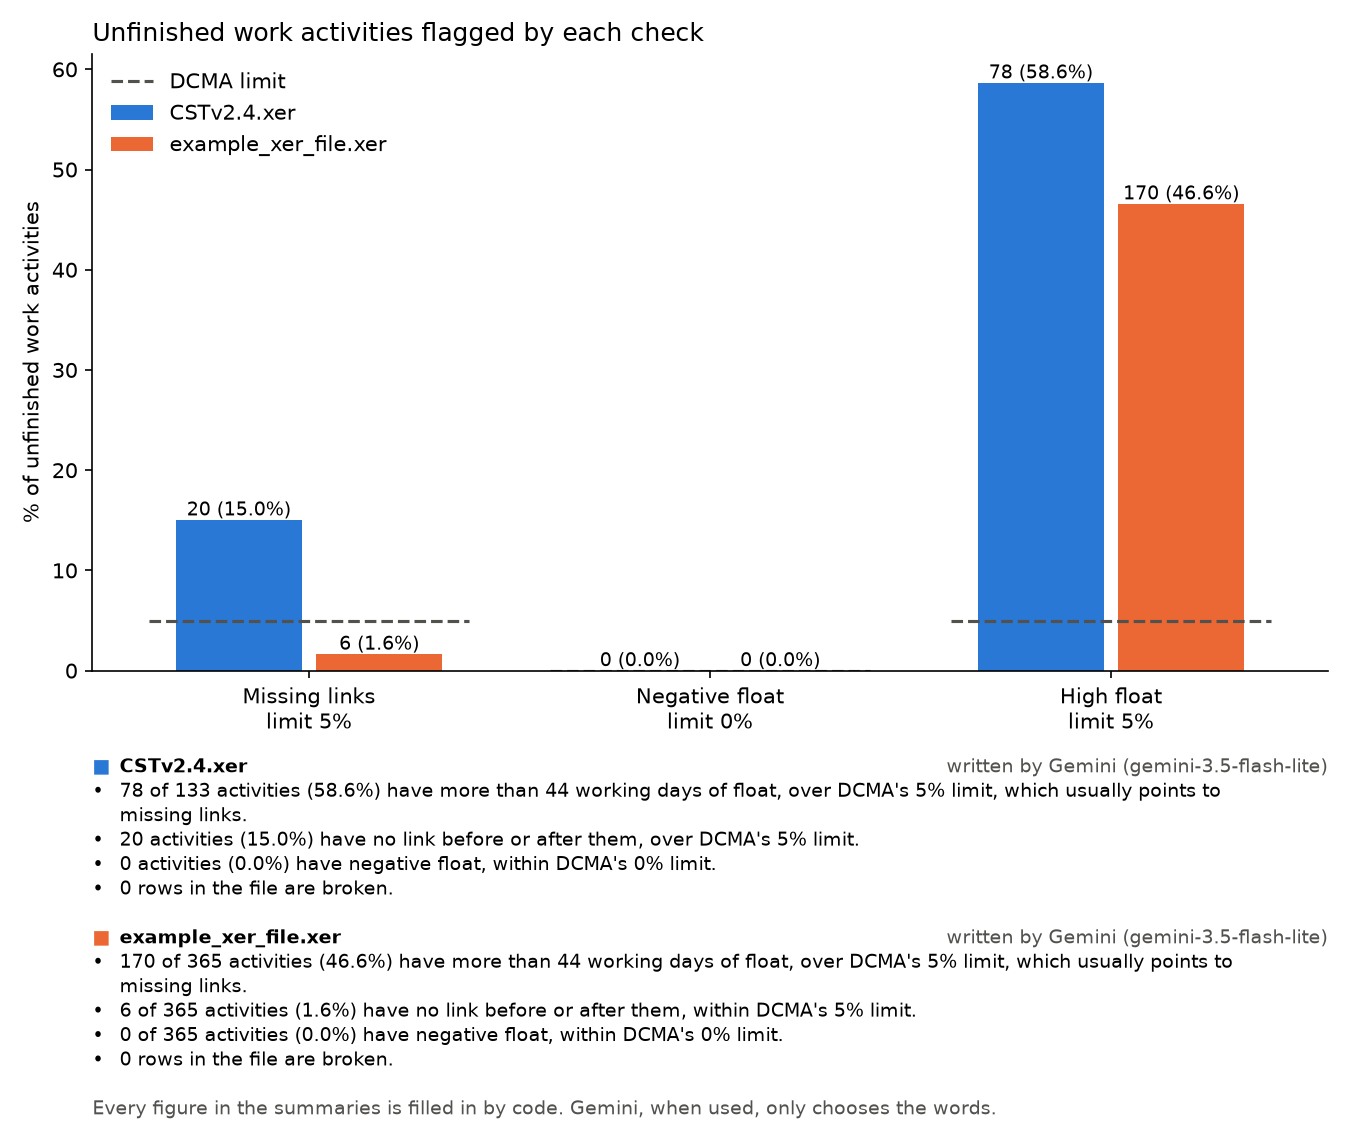
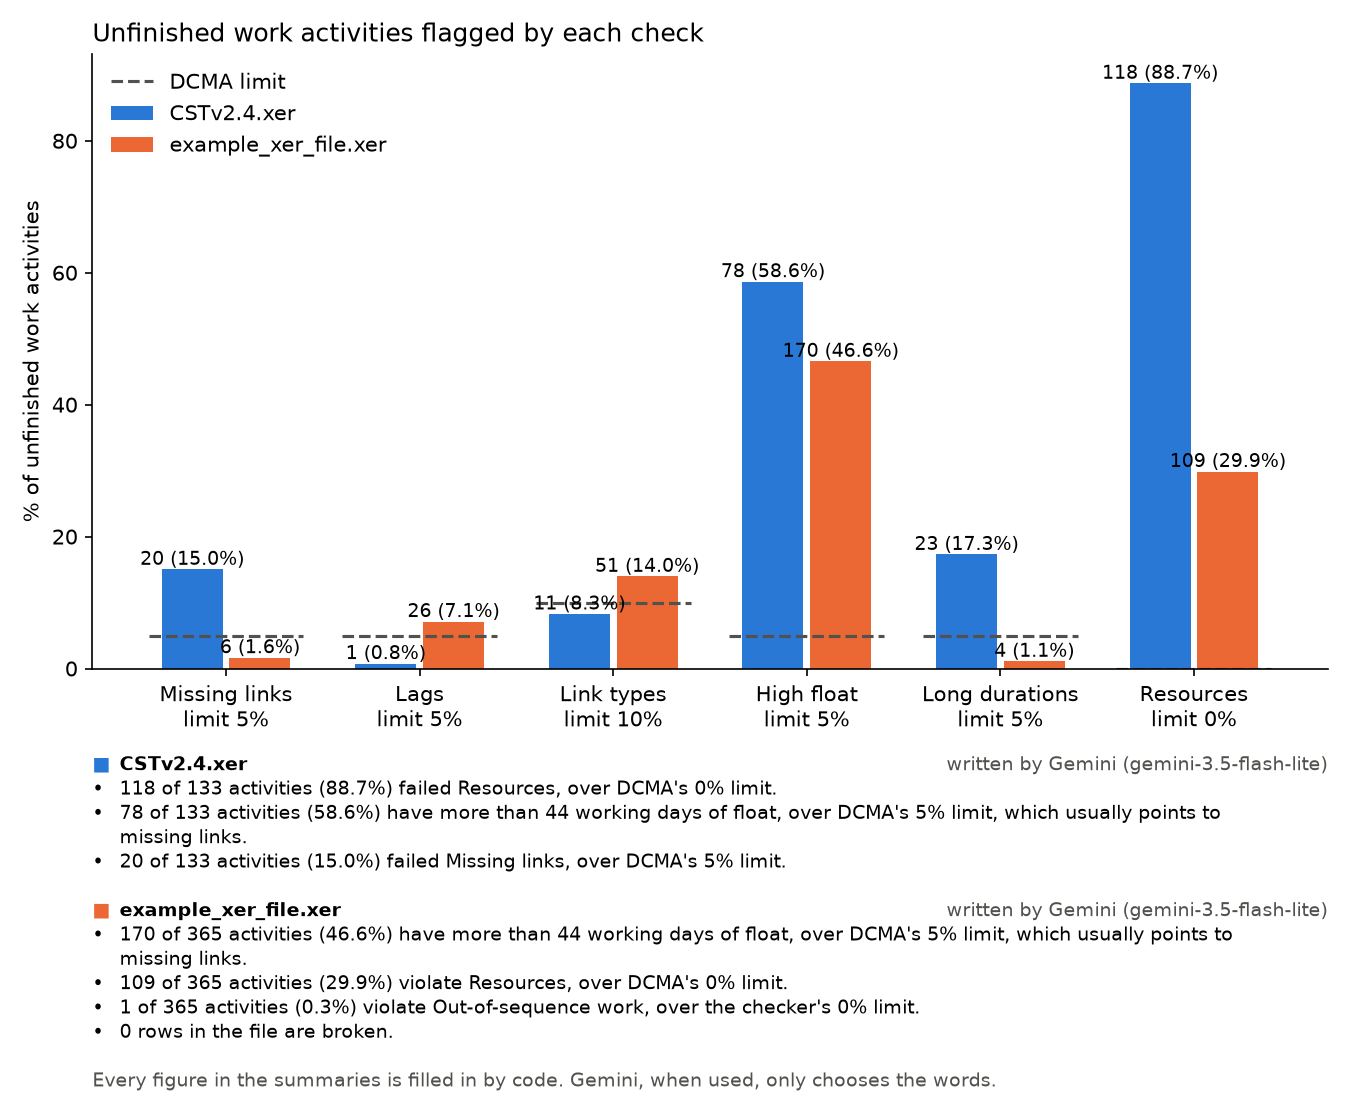
docs: replace the README screenshots and chart with the current design

diff --git a/frontend/README.md b/frontend/README.md
@@ -2,15 +2,15 @@
 
 The page where you upload a `.xer` file and see where its problems are. Vite, React and TypeScript, in a calm, neutral tool design: little text, mostly pictures.
 
-![Dashboard](dashboard.png)
+![A report: the verdict for example_xer_file.xer](dashboard.png)
 
 ## What a scheduler gets
 
 | Part | What it does |
 |---|---|
-| **Home** | The demo and one upload button, or the list of recent schedules with a strip of checks each. Nothing else |
+| **Home** | The demo and one upload button before the first upload. After it, a drop area and the saved files. Each file is a row that opens on its 5 headline checks, with a one-click report and delete |
 | **Upload** | Drop a `.xer` file anywhere on the page, or use the button. A wrong file type or a file over 50 MB is refused at once, before it's sent |
-| **Verdict** | First on the page: how many checks are over the limit, the worst three, finish against deadline, and what changed since the last upload |
+| **Verdict** | First on the page: whether the file reads cleanly, and how many checks are over the limit. Then the driving path, finish against deadline, and progress. Every check over the limit follows, as Serious or Minor |
 | **The checks** | One cell per check in sets, then a bullet row for each failing check: its value, limit tick, how many times over, and the change. Passing checks and checks that can't run fold into a line each. Click one to list its activities |
 | **Float** | One bar from late to spare time, coloured by how close to critical the work is |
 | **Where** | The WBS tree as rows, worst first, counting the picked check, a set of checks or all flags. Cells show the months flagged work starts, with the span and finished share. The data date, forecast finish and deadline are labelled on the axis. A second view is a matrix of groups against sets of checks. Click a group to list its activities |
@@ -19,15 +19,16 @@ The page where you upload a `.xer` file and see where its problems are. Vite, Re
 | **File profile** | One small card: five counts (activities, links, leads, lags, constraints) and two bars (status, and what the checks leave out) |
 | **Summary and broken rows** | The summary is folded away. Broken rows show only when the file has some |
 
-| **Recent schedules** | Every saved schedule, newest first, repeat uploads of one file together. Each has its own address (`/uploads/<id>`). So does each check in it (`/uploads/<id>/checks/<check>`). Refresh, Back and a shared link all work |
+| **Recent schedules** | Every saved schedule, newest first. Each has its own address (`/uploads/<id>`). So does each check in it (`/uploads/<id>/checks/<check>`). Refresh, Back and a shared link all work |
 
-**The home page is simple.** With no checks yet it shows a short looping demo, built with [Stageshow](https://github.com/benjitaylor/skills/tree/main/stageshow), and one upload button. Once there are checks it shows the list and the button. A schedule has an "All schedules" link back.
+**The home page is simple.** With no checks yet it shows a short looping demo, built with [Stageshow](https://github.com/benjitaylor/skills/tree/main/stageshow), and one upload button. Once there are checks it shows the drop area and the saved files. A schedule has an "All schedules" link back.
+
+![Home: the saved files, the newest open on its 5 headline checks](home.png)
 
 ![Schedule map](map.png)
 
 ![Activities](activities.png)
 
-![Upload screen](upload-screen.png)
 
 ## Run it
 

diff --git a/README.md b/README.md
@@ -8,7 +8,9 @@ Checks Primavera P6 schedule files (`.xer`). Upload a file in the browser and se
 
 **The empty state:** before the first upload, the home page plays this demo. It shows the real results for `CSTv2.4.xer`.
 
-![Dashboard](frontend/dashboard.png)
+**A report:** the verdict comes first. It says whether the file reads cleanly, how many checks are over the limit, and the finish against the deadline.
+
+![A report: the verdict for example_xer_file.xer](frontend/dashboard.png)
 
 For each file, it:
 
@@ -29,9 +31,10 @@ The command line draws the same results as one chart, for both files:
 
 **How to read the chart:**
 
+- **Bars shown:** the 6 checks furthest over their limit, in either file.
 - **Each bar:** the share of a file's unfinished activities a check caught.
 - **Dashed line:** the DCMA limit.
-- **Over the limit:** missing links in `CSTv2.4.xer` (15.0%), and high float in both files (58.6% and 46.6%).
+- **Biggest problems:** no resources in `CSTv2.4.xer` (88.7%), and high float in both files (58.6% and 46.6%).
 - **Under the bars:** each file's summary, and who wrote it ([The AI summary](#the-ai-summary)).
 
 ## Features
